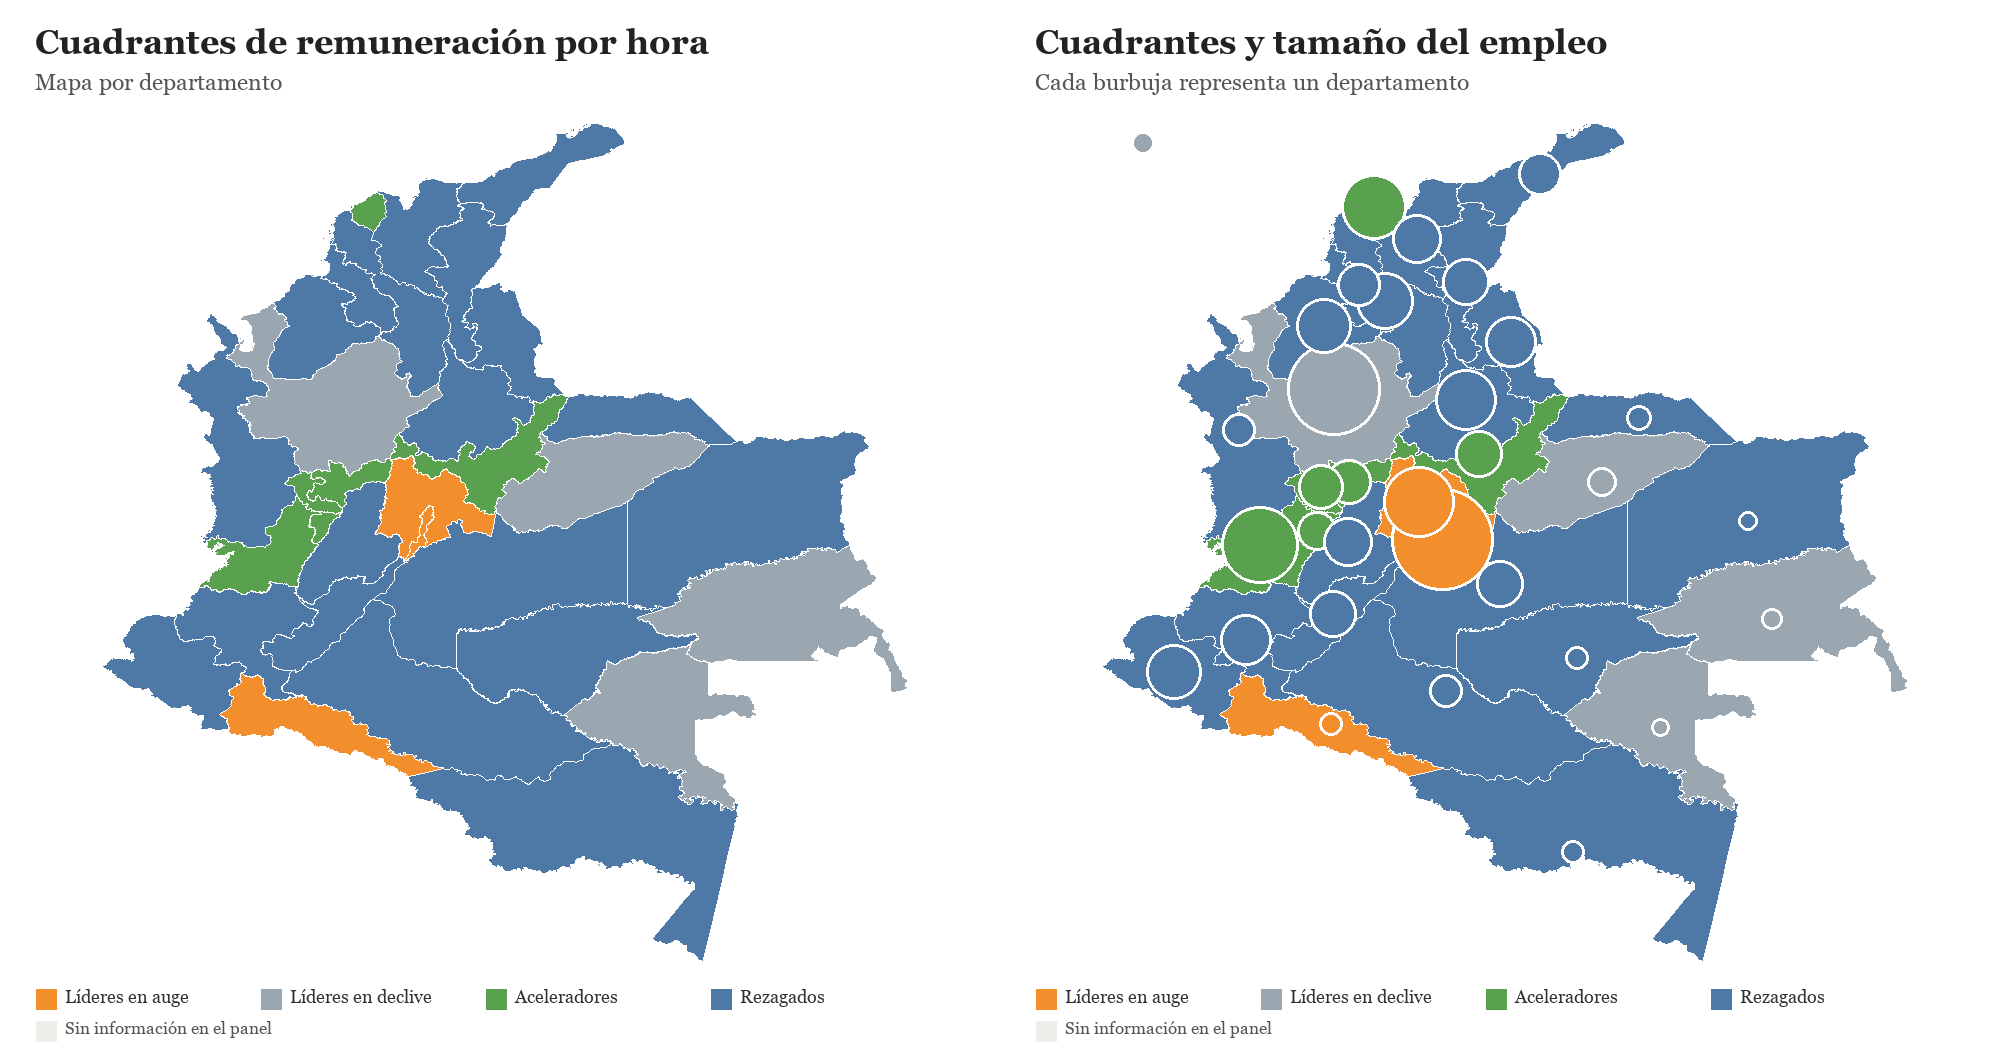
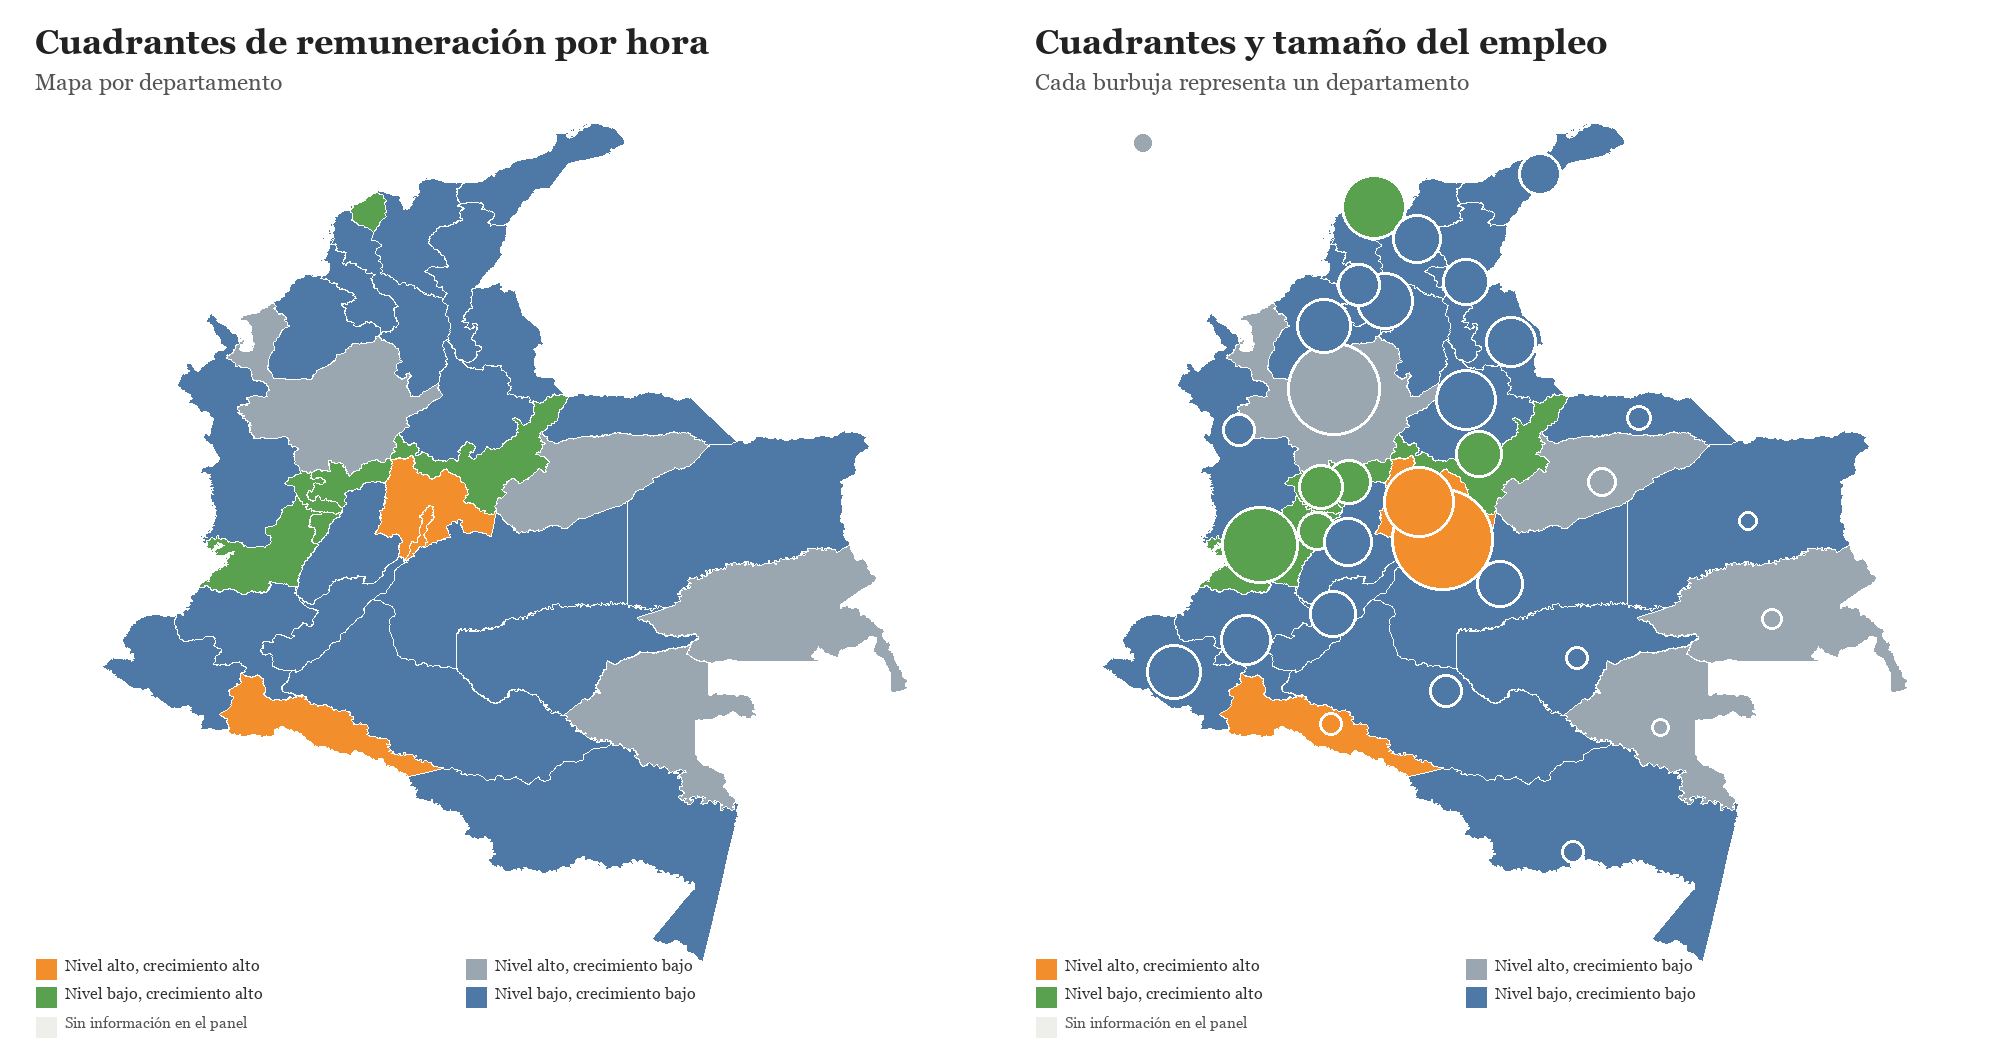
Agregar cuadrantes descriptivos departamentales

Changed region(s): [[0.496, 0.9143, 0.899, 1.0], [0.0, 0.9143, 0.403, 1.0]]

diff --git a/Code/02.8_Informes_Departamentales.py b/Code/02.8_Informes_Departamentales.py
@@ -749,16 +749,20 @@ def draw_single_map(
                 fill = diverging_color(float(row[value_col]), midpoint or 0, limit, "#b2182b", "#f7f7f7", "#2166ac")
             draw.ellipse((x - radius, y - radius, x + radius, y + radius), fill=fill, outline="white", width=3)
 
-    legend_y = height - 62
     if category_colors:
-        x = 35
-        for label, color in category_colors.items():
-            draw.rectangle((x, legend_y, x + 22, legend_y + 22), fill=hex_to_rgb(color), outline="#ffffff")
-            draw.text((x + 30, legend_y - 2), label, fill="#333333", font=font(18))
-            x += 225
-        draw.rectangle((35, legend_y + 32, 57, legend_y + 54), fill=(238, 238, 234), outline="#ffffff")
-        draw.text((65, legend_y + 30), "Sin información en el panel", fill="#555555", font=font(17))
+        legend_y = height - 92
+        items = list(category_colors.items())
+        for idx, (label, color) in enumerate(items):
+            col = idx % 2
+            row = idx // 2
+            x = 35 + col * 430
+            y = legend_y + row * 28
+            draw.rectangle((x, y, x + 22, y + 22), fill=hex_to_rgb(color), outline="#ffffff")
+            draw.text((x + 30, y - 2), label, fill="#333333", font=font(16))
+        draw.rectangle((35, legend_y + 58, 57, legend_y + 80), fill=(238, 238, 234), outline="#ffffff")
+        draw.text((65, legend_y + 56), "Sin información en el panel", fill="#555555", font=font(15))
     else:
+        legend_y = height - 62
         bar_x, bar_y, bar_w, bar_h = 35, legend_y + 8, 300, 18
         steps = 80
         for i in range(steps):
@@ -800,27 +804,52 @@ def compose_two_panel(panels: list[Image.Image], out_name: str) -> None:
         canvas.save(directory / out_name)
 
 
+QUADRANT_COLORS = {
+    "Nivel alto, crecimiento alto": "#f28e2b",
+    "Nivel alto, crecimiento bajo": "#9aa7b0",
+    "Nivel bajo, crecimiento alto": "#59a14f",
+    "Nivel bajo, crecimiento bajo": "#4e79a7",
+}
+
+
+def classify_quadrants(
+    data: pd.DataFrame,
+    level_col: str,
+    growth_col: str,
+    level_ref: float,
+    growth_ref: float,
+    out_col: str,
+) -> pd.DataFrame:
+    data[out_col] = np.select(
+        [
+            (data[level_col] >= level_ref) & (data[growth_col] >= growth_ref),
+            (data[level_col] >= level_ref) & (data[growth_col] < growth_ref),
+            (data[level_col] < level_ref) & (data[growth_col] >= growth_ref),
+        ],
+        [
+            "Nivel alto, crecimiento alto",
+            "Nivel alto, crecimiento bajo",
+            "Nivel bajo, crecimiento alto",
+        ],
+        default="Nivel bajo, crecimiento bajo",
+    )
+    return data
+
+
 def draw_remuneration_maps(summary: pd.DataFrame, benchmarks: dict[str, float], suffix: str) -> None:
     data = summary.copy()
     data["rem_trabajador_millones"] = data["rem_trabajador_fin"] / 1e6
     data["rem_hora_miles"] = data["rem_hora_fin"] / 1000
     data["crec_rem_trabajador_pct"] = data["crec_rem_trabajador"] * 100
     data["crec_rem_hora_pct"] = data["crec_rem_hora"] * 100
-    data["cuadrante_rem_hora"] = np.select(
-        [
-            (data["rem_hora_fin"] >= benchmarks["rem_hora_fin"]) & (data["crec_rem_hora"] >= benchmarks["crec_rem_hora"]),
-            (data["rem_hora_fin"] >= benchmarks["rem_hora_fin"]) & (data["crec_rem_hora"] < benchmarks["crec_rem_hora"]),
-            (data["rem_hora_fin"] < benchmarks["rem_hora_fin"]) & (data["crec_rem_hora"] >= benchmarks["crec_rem_hora"]),
-        ],
-        ["Líderes en auge", "Líderes en declive", "Aceleradores"],
-        default="Rezagados",
+    data = classify_quadrants(
+        data,
+        "rem_hora_fin",
+        "crec_rem_hora",
+        benchmarks["rem_hora_fin"],
+        benchmarks["crec_rem_hora"],
+        "cuadrante_rem_hora",
     )
-    quadrant_colors = {
-        "Líderes en auge": "#f28e2b",
-        "Líderes en declive": "#9aa7b0",
-        "Aceleradores": "#59a14f",
-        "Rezagados": "#4e79a7",
-    }
     compose_four_panel(
         [
             draw_single_map(data, "rem_trabajador_millones", "Remuneración por trabajador", "Mapa de calor"),
@@ -841,10 +870,23 @@ def draw_remuneration_maps(summary: pd.DataFrame, benchmarks: dict[str, float], 
     )
     compose_two_panel(
         [
-            draw_single_map(data, "cuadrante_rem_hora", "Cuadrantes de remuneración por hora", "Mapa por departamento", category_colors=quadrant_colors),
-            draw_single_map(data, "cuadrante_rem_hora", "Cuadrantes y tamaño del empleo", "Cada burbuja representa un departamento", category_colors=quadrant_colors, bubble=True),
+            draw_single_map(data, "cuadrante_rem_hora", "Cuadrantes de remuneración por hora", "Mapa por departamento", category_colors=QUADRANT_COLORS),
+            draw_single_map(data, "cuadrante_rem_hora", "Cuadrantes y tamaño del empleo", "Cada burbuja representa un departamento", category_colors=QUADRANT_COLORS, bubble=True),
         ],
         f"fig_dept_remuneracion_mapa_cuadrantes_{suffix}.png",
+    )
+    draw_quadrant_bubble_chart(
+        data,
+        level_col="rem_hora_miles",
+        growth_col="crec_rem_hora",
+        level_ref=benchmarks["rem_hora_fin"] / 1000,
+        growth_ref=benchmarks["crec_rem_hora"],
+        title="Nivel y crecimiento de la remuneración por hora",
+        subtitle="Cada burbuja representa un departamento; el tamaño es proporcional al número de ocupados",
+        x_label="Crecimiento anualizado de la remuneración por hora",
+        y_label="Remuneración por hora, miles de pesos de 2025",
+        out_name=f"fig_dept_remuneracion_cuadrantes_{suffix}.png",
+        source="GEIH",
     )
 
 
@@ -918,6 +960,128 @@ def draw_scatter_panel(
     draw.text((plot_left + 220, plot_bottom + 52), x_label, fill="#333333", font=font(25))
 
 
+def draw_quadrant_bubble_chart(
+    summary: pd.DataFrame,
+    *,
+    level_col: str,
+    growth_col: str,
+    level_ref: float,
+    growth_ref: float,
+    title: str,
+    subtitle: str,
+    x_label: str,
+    y_label: str,
+    out_name: str,
+    source: str = "DANE y GEIH",
+) -> None:
+    data = summary.copy()
+    data["x_value"] = data[growth_col] * 100
+    data["y_value"] = data[level_col]
+    data = classify_quadrants(
+        data,
+        "y_value",
+        "x_value",
+        level_ref,
+        growth_ref * 100,
+        "cuadrante",
+    )
+
+    width, height = 2100, 1450
+    img = Image.new("RGB", (width, height), "white")
+    draw = ImageDraw.Draw(img)
+    draw.text((80, 45), title, fill="#222222", font=font(46, True))
+    draw.text((80, 105), subtitle, fill="#555555", font=font(27))
+
+    plot_left, plot_top, plot_right, plot_bottom = 240, 230, 1970, 1190
+    x_min = min(data["x_value"].min(), growth_ref * 100)
+    x_max = max(data["x_value"].max(), growth_ref * 100)
+    y_min = min(data["y_value"].min(), level_ref)
+    y_max = max(data["y_value"].max(), level_ref)
+    x_pad = max((x_max - x_min) * 0.12, 0.35)
+    y_pad = max((y_max - y_min) * 0.12, 0.35)
+    x_min, x_max = x_min - x_pad, x_max + x_pad
+    y_min, y_max = y_min - y_pad, y_max + y_pad
+
+    def xp(value: float) -> float:
+        return plot_left + (value - x_min) / (x_max - x_min) * (plot_right - plot_left)
+
+    def yp(value: float) -> float:
+        return plot_bottom - (value - y_min) / (y_max - y_min) * (plot_bottom - plot_top)
+
+    draw.rectangle((plot_left, plot_top, plot_right, plot_bottom), outline="#333333", width=2)
+    for i in range(6):
+        x = plot_left + i / 5 * (plot_right - plot_left)
+        y = plot_top + i / 5 * (plot_bottom - plot_top)
+        draw.line((x, plot_top, x, plot_bottom), fill="#eeeeee", width=1)
+        draw.line((plot_left, y, plot_right, y), fill="#eeeeee", width=1)
+        x_tick = x_min + i / 5 * (x_max - x_min)
+        y_tick = y_min + (5 - i) / 5 * (y_max - y_min)
+        draw.text((x - 28, plot_bottom + 18), f"{fmt_num_es(x_tick, 1)}%", fill="#555555", font=font(21))
+        draw.text((plot_left - 92, y - 13), fmt_num_es(y_tick, 1), fill="#555555", font=font(21))
+
+    x_ref = growth_ref * 100
+    y_ref = level_ref
+    draw.line((xp(x_ref), plot_top, xp(x_ref), plot_bottom), fill="#1f5aa6", width=4)
+    draw.line((plot_left, yp(y_ref), plot_right, yp(y_ref)), fill="#1f5aa6", width=4)
+    x_ref_label = max(plot_left + 20, xp(x_ref) - 260)
+    draw.text((x_ref_label, plot_top + 88), f"Crec. agregado: {fmt_num_es(x_ref, 1)}%", fill="#1f5aa6", font=font(20, True))
+    draw.text((plot_left + 20, yp(y_ref) - 30), f"Nivel agregado: {fmt_num_es(y_ref, 1)}", fill="#1f5aa6", font=font(20, True))
+
+    corner_font = font(24, True)
+    draw.text((plot_left + 20, plot_top + 18), "Nivel alto,\ncrecimiento bajo", fill="#1f5aa6", font=corner_font)
+    draw.text((plot_right - 355, plot_top + 18), "Nivel alto,\ncrecimiento alto", fill="#1f5aa6", font=corner_font)
+    draw.text((plot_left + 20, plot_bottom - 82), "Nivel bajo,\ncrecimiento bajo", fill="#1f5aa6", font=corner_font)
+    draw.text((plot_right - 355, plot_bottom - 82), "Nivel bajo,\ncrecimiento alto", fill="#1f5aa6", font=corner_font)
+
+    max_occ = data["ocupados_fin"].max()
+    min_occ = data["ocupados_fin"].min()
+    label_offsets = {
+        "Bogotá D.C.": (-145, -42),
+        "Antioquia": (-125, -30),
+        "Cundinamarca": (18, -38),
+        "Valle del Cauca": (18, 14),
+        "Santander": (18, 10),
+        "Meta": (18, -34),
+        "Caldas": (-100, -36),
+        "Risaralda": (-120, 12),
+        "Quindío": (18, 10),
+        "Chocó": (18, -8),
+        "Caquetá": (18, 10),
+        "Nariño": (-95, 10),
+        "La Guajira": (18, 8),
+        "Bolívar": (18, 10),
+        "Boyacá": (18, -32),
+        "Norte de Santander": (18, -38),
+    }
+    for _, row in data.sort_values("ocupados_fin", ascending=False).iterrows():
+        x = xp(float(row["x_value"]))
+        y = yp(float(row["y_value"]))
+        radius = 11 + 48 * math.sqrt((row["ocupados_fin"] - min_occ) / max(max_occ - min_occ, 1))
+        fill = hex_to_rgb(QUADRANT_COLORS[str(row["cuadrante"])])
+        draw.ellipse((x - radius, y - radius, x + radius, y + radius), fill=fill, outline="white", width=3)
+        dx, dy = label_offsets.get(row["departamento"], (16, -12))
+        draw.text((x + dx, y + dy), row["departamento"], fill="#222222", font=font(21))
+
+    draw.text((plot_left + 520, plot_bottom + 76), x_label, fill="#333333", font=font(27))
+    draw.text((plot_left, plot_top - 42), y_label, fill="#333333", font=font(27))
+
+    legend_x, legend_y = 90, 1280
+    for idx, (label, color) in enumerate(QUADRANT_COLORS.items()):
+        x = legend_x + (idx % 2) * 560
+        y = legend_y + (idx // 2) * 38
+        draw.rectangle((x, y, x + 24, y + 24), fill=hex_to_rgb(color), outline="#ffffff")
+        draw.text((x + 34, y - 1), label, fill="#333333", font=font(22))
+    draw.text(
+        (90, 1390),
+        f"Fuente: cálculos propios con {source}. Líneas azules: agregado de los departamentos comparables; burbuja: número de ocupados.",
+        fill="#555555",
+        font=font(21),
+    )
+
+    for directory in [FIGURE_DIR, OUTPUT_FIGURE_DIR]:
+        img.save(directory / out_name)
+
+
 def draw_relation_scatter(table: pd.DataFrame, benchmarks: dict[str, float], suffix: str) -> None:
     data = table.copy()
     data["pib_trabajador_plot"] = data["pib_trabajador_fin"]
@@ -982,6 +1146,18 @@ def draw_productivity_maps(summary: pd.DataFrame, benchmarks: dict[str, float], 
         ],
         f"fig_dept_productividad_mapa_crecimientos_{suffix}.png",
     )
+    draw_quadrant_bubble_chart(
+        data,
+        level_col="pib_hora_fin",
+        growth_col="crec_pib_hora",
+        level_ref=benchmarks["pib_hora_fin"],
+        growth_ref=benchmarks["crec_pib_hora"],
+        title="Nivel y crecimiento del PIB por hora trabajada",
+        subtitle="Cada burbuja representa un departamento; el tamaño es proporcional al número de ocupados",
+        x_label="Crecimiento anualizado del PIB por hora trabajada",
+        y_label="PIB por hora, miles de pesos de 2015",
+        out_name=f"fig_dept_productividad_cuadrantes_{suffix}.png",
+    )
 
 
 def write_remuneration_body(
@@ -1041,7 +1217,17 @@ def write_remuneration_body(
         r"  \caption*{\footnotesize Nota: las escalas de color se centran en el crecimiento agregado del panel de 24 departamentos. Fuente: cálculos propios con GEIH.}",
         r"\end{figure}",
         "",
-        r"\textbf{La clasificación por cuadrantes separa nivel y dinamismo.} Un departamento puede tener una remuneración alta pero crecer por debajo del agregado; también puede partir de niveles bajos y crecer rápido. La Figura \ref{fig:dept_remuneracion_mapa_cuadrantes_24} clasifica los departamentos con base en la remuneración por hora: líderes en auge, líderes en declive, aceleradores y rezagados.",
+        r"\textbf{La clasificación por cuadrantes separa nivel y dinamismo.} Un departamento puede tener una remuneración alta pero crecer por debajo del agregado; también puede partir de niveles bajos y crecer rápido. La Figura \ref{fig:dept_remuneracion_cuadrantes_24} cruza el nivel de remuneración por hora con su crecimiento anualizado. Los cuatro cuadrantes se nombran de forma descriptiva: nivel alto y crecimiento alto; nivel alto y crecimiento bajo; nivel bajo y crecimiento alto; y nivel bajo y crecimiento bajo.",
+        "",
+        r"\begin{figure}[H]",
+        r"  \centering",
+        r"  \includegraphics[width=\textwidth]{Paper/figures/fig_dept_remuneracion_cuadrantes_24.png}",
+        rf"  \caption{{Nivel y crecimiento de la remuneración por hora, {PANEL_24_START}--{REMUNERATION_END}}}",
+        r"  \label{fig:dept_remuneracion_cuadrantes_24}",
+        r"  \caption*{\footnotesize Nota: la línea vertical muestra el crecimiento agregado de la remuneración por hora; la línea horizontal muestra el nivel agregado de remuneración por hora. El tamaño de la burbuja es proporcional al número de ocupados. Fuente: cálculos propios con GEIH.}",
+        r"\end{figure}",
+        "",
+        r"\textbf{El mapa permite ver la misma clasificación en el territorio.} La Figura \ref{fig:dept_remuneracion_mapa_cuadrantes_24} muestra dónde se ubican los departamentos de cada cuadrante y complementa la lectura de la dispersión.",
         "",
         r"\begin{figure}[H]",
         r"  \centering",
@@ -1123,6 +1309,16 @@ def write_productivity_relation_body(
         rf"  \caption{{Mapa de crecimiento de la productividad laboral departamental, {PANEL_24_START}--{PRODUCTIVITY_END}pr}}",
         r"  \label{fig:dept_productividad_mapa_crecimientos_24}",
         r"  \caption*{\footnotesize Nota: las escalas de color se centran en el crecimiento agregado del panel de 24 departamentos. Fuente: cálculos propios con DANE y GEIH.}",
+        r"\end{figure}",
+        "",
+        r"\textbf{También es útil separar el nivel de productividad de su crecimiento.} La Figura \ref{fig:dept_productividad_cuadrantes_24} cruza el nivel de PIB por hora trabajada en 2024pr con su crecimiento anualizado. La línea vertical marca el crecimiento agregado y la línea horizontal marca el nivel agregado. Así se distinguen cuatro situaciones sin convertir la clasificación en un juicio de desempeño: nivel alto y crecimiento alto; nivel alto y crecimiento bajo; nivel bajo y crecimiento alto; y nivel bajo y crecimiento bajo.",
+        "",
+        r"\begin{figure}[H]",
+        r"  \centering",
+        r"  \includegraphics[width=\textwidth]{Paper/figures/fig_dept_productividad_cuadrantes_24.png}",
+        rf"  \caption{{Nivel y crecimiento del PIB por hora trabajada, {PANEL_24_START}--{PRODUCTIVITY_END}pr}}",
+        r"  \label{fig:dept_productividad_cuadrantes_24}",
+        r"  \caption*{\footnotesize Nota: la línea vertical muestra el crecimiento agregado del PIB por hora; la línea horizontal muestra el nivel agregado de PIB por hora. El tamaño de la burbuja es proporcional al número de ocupados. Fuente: cálculos propios con DANE y GEIH.}",
         r"\end{figure}",
         "",
         r"\section{Productividad y remuneración}",

diff --git a/Paper/sections/CuerpoInformeRemuneracionDepartamentos.tex b/Paper/sections/CuerpoInformeRemuneracionDepartamentos.tex
@@ -44,7 +44,17 @@
   \caption*{\footnotesize Nota: las escalas de color se centran en el crecimiento agregado del panel de 24 departamentos. Fuente: cálculos propios con GEIH.}
 \end{figure}
 
-\textbf{La clasificación por cuadrantes separa nivel y dinamismo.} Un departamento puede tener una remuneración alta pero crecer por debajo del agregado; también puede partir de niveles bajos y crecer rápido. La Figura \ref{fig:dept_remuneracion_mapa_cuadrantes_24} clasifica los departamentos con base en la remuneración por hora: líderes en auge, líderes en declive, aceleradores y rezagados.
+\textbf{La clasificación por cuadrantes separa nivel y dinamismo.} Un departamento puede tener una remuneración alta pero crecer por debajo del agregado; también puede partir de niveles bajos y crecer rápido. La Figura \ref{fig:dept_remuneracion_cuadrantes_24} cruza el nivel de remuneración por hora con su crecimiento anualizado. Los cuatro cuadrantes se nombran de forma descriptiva: nivel alto y crecimiento alto; nivel alto y crecimiento bajo; nivel bajo y crecimiento alto; y nivel bajo y crecimiento bajo.
+
+\begin{figure}[H]
+  \centering
+  \includegraphics[width=\textwidth]{Paper/figures/fig_dept_remuneracion_cuadrantes_24.png}
+  \caption{Nivel y crecimiento de la remuneración por hora, 2009--2025}
+  \label{fig:dept_remuneracion_cuadrantes_24}
+  \caption*{\footnotesize Nota: la línea vertical muestra el crecimiento agregado de la remuneración por hora; la línea horizontal muestra el nivel agregado de remuneración por hora. El tamaño de la burbuja es proporcional al número de ocupados. Fuente: cálculos propios con GEIH.}
+\end{figure}
+
+\textbf{El mapa permite ver la misma clasificación en el territorio.} La Figura \ref{fig:dept_remuneracion_mapa_cuadrantes_24} muestra dónde se ubican los departamentos de cada cuadrante y complementa la lectura de la dispersión.
 
 \begin{figure}[H]
   \centering

diff --git a/Paper/sections/CuerpoInformeProductividadRemuneracionDepartamentos.tex b/Paper/sections/CuerpoInformeProductividadRemuneracionDepartamentos.tex
@@ -34,6 +34,16 @@
   \caption*{\footnotesize Nota: las escalas de color se centran en el crecimiento agregado del panel de 24 departamentos. Fuente: cálculos propios con DANE y GEIH.}
 \end{figure}
 
+\textbf{También es útil separar el nivel de productividad de su crecimiento.} La Figura \ref{fig:dept_productividad_cuadrantes_24} cruza el nivel de PIB por hora trabajada en 2024pr con su crecimiento anualizado. La línea vertical marca el crecimiento agregado y la línea horizontal marca el nivel agregado. Así se distinguen cuatro situaciones sin convertir la clasificación en un juicio de desempeño: nivel alto y crecimiento alto; nivel alto y crecimiento bajo; nivel bajo y crecimiento alto; y nivel bajo y crecimiento bajo.
+
+\begin{figure}[H]
+  \centering
+  \includegraphics[width=\textwidth]{Paper/figures/fig_dept_productividad_cuadrantes_24.png}
+  \caption{Nivel y crecimiento del PIB por hora trabajada, 2009--2024pr}
+  \label{fig:dept_productividad_cuadrantes_24}
+  \caption*{\footnotesize Nota: la línea vertical muestra el crecimiento agregado del PIB por hora; la línea horizontal muestra el nivel agregado de PIB por hora. El tamaño de la burbuja es proporcional al número de ocupados. Fuente: cálculos propios con DANE y GEIH.}
+\end{figure}
+
 \section{Productividad y remuneración}
 
 \textbf{Los departamentos más productivos tienden a tener mayores remuneraciones, pero la relación no es perfecta.} La correlación entre PIB por trabajador y remuneración por trabajador es 0,79; entre PIB por hora y remuneración por hora es 0,77. La Figura \ref{fig:dept_productividad_remuneracion_scatter_24} muestra ambas relaciones.
